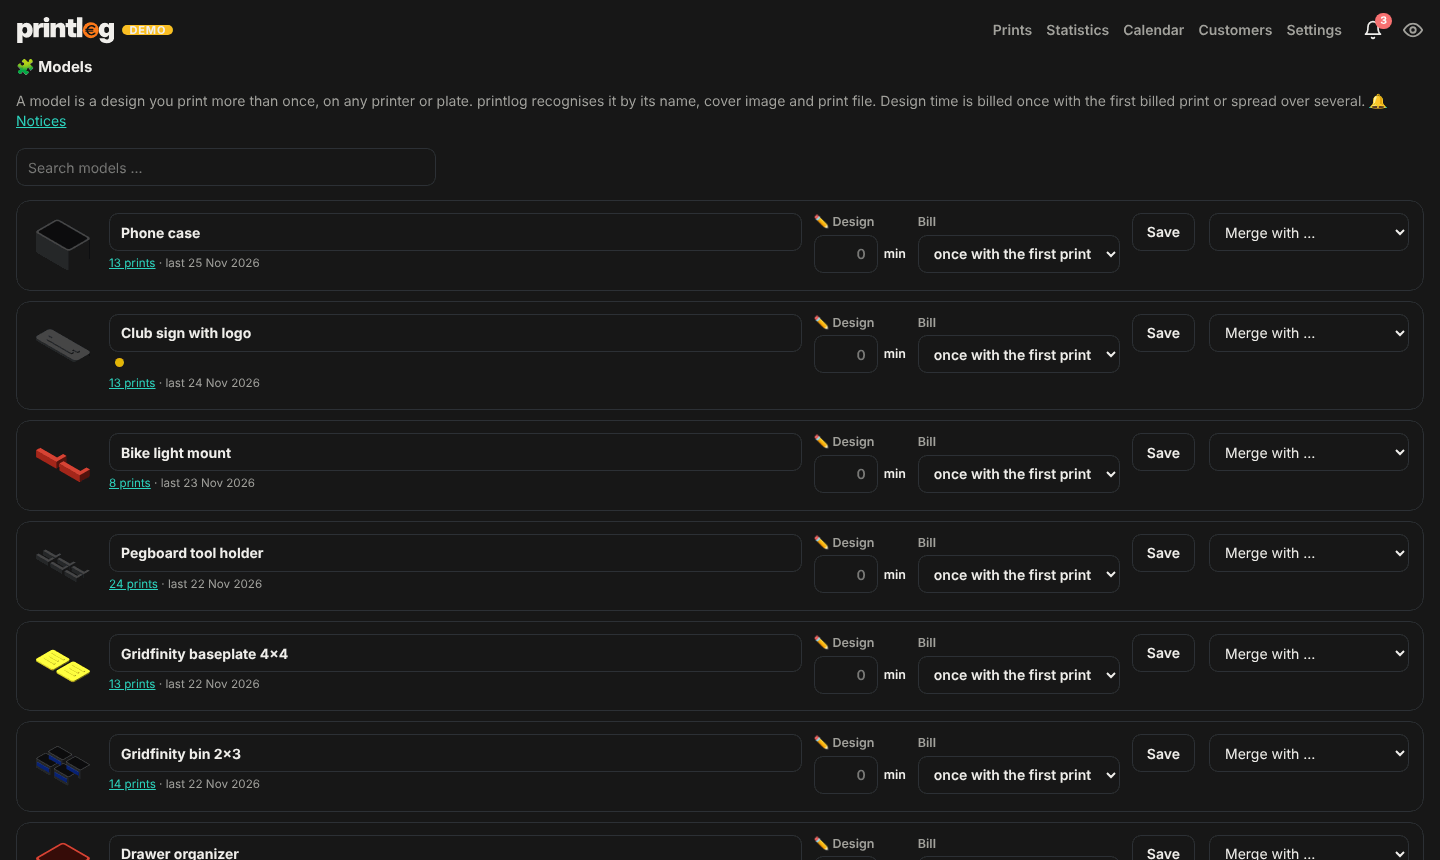
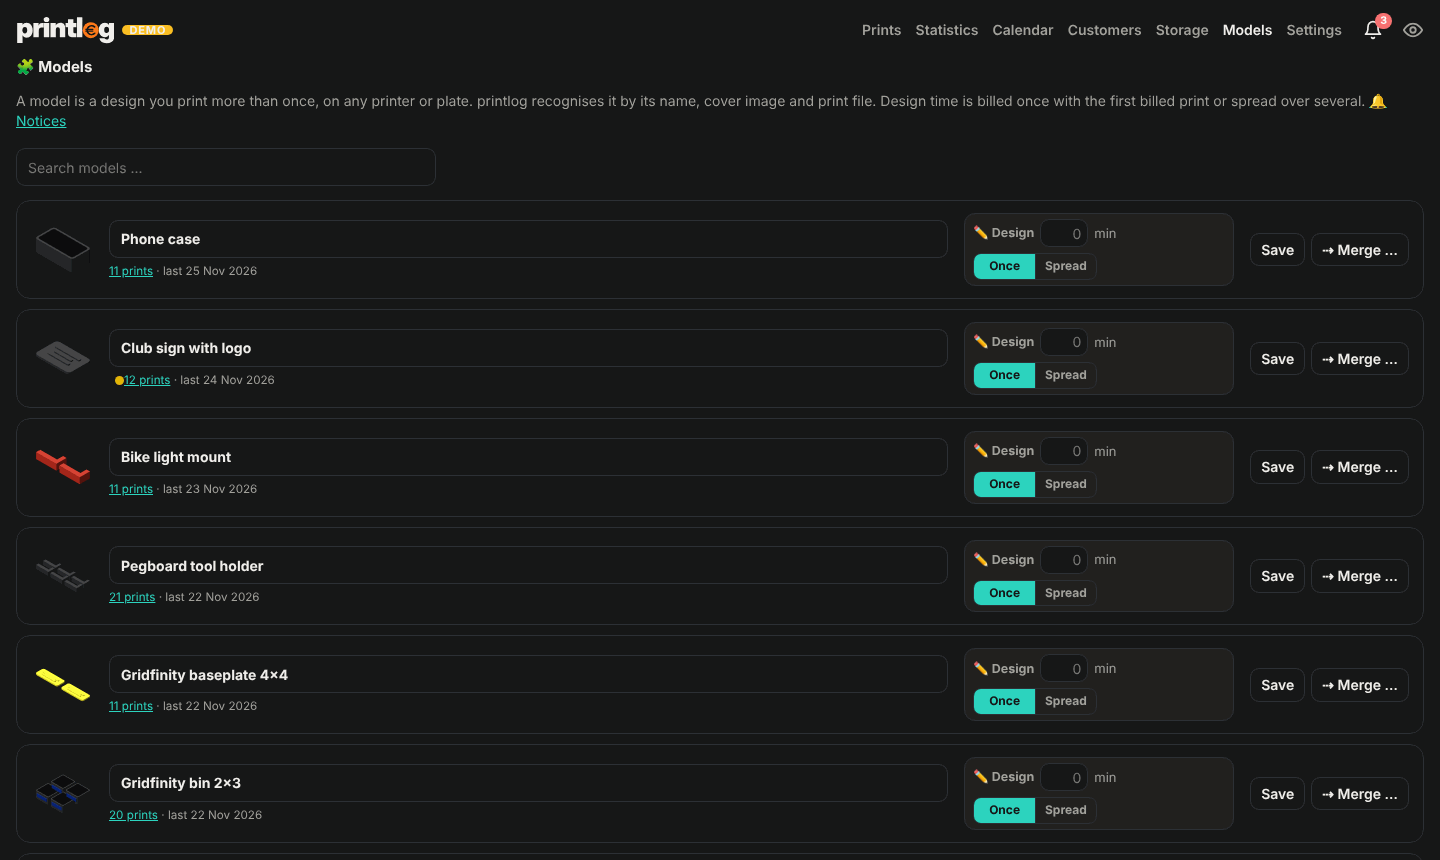
Modelle-Seite: Zeilen bündig, Design-Umschalter, Suche beim Zusammenlegen (#25)
* Arbeit & Zubehör: Arbeitszeit, Zubehör-Inventar, Montage und Bon-Option

- Kasten „Arbeit & Zubehör“ in der Übersicht: Vorbereitung pro Platte, Nachbearbeitung
  pro Stück oder einmalig, Design mit eigenem Stundensatz, Zubehör aus dem Inventar
  und einmalige Posten
- Inventar in den Einstellungen mit Packungspreis, Bestand, Warnung, Kauflink, Zugang
- Zubehör reserviert, abgebucht bei „Montiert“ oder Übergabe
- Preis = (Druck + Zubehör) × (1 + Marge) + Arbeit; Häkchen „auch auf Arbeitszeit“
  pro Marge, pro Kunde Standard/ja/nein
- Gewinn über Selbstkosten und effektiver Stundenlohn im Preiskasten
- Projekte und Aufteilungen rechnen Arbeit und Zubehör mit; CSV, Bon, PDF erweitert
- Kunden-Bon optional mit enthaltenen Positionen ohne Preise
- Demo-Daten, README EN/DE und Bilder

Claude-Session: https://claude.ai/code/session_016QS8kLCpfAFka2Kzu3XCw3

* Modelle mit Erkennung, Designkosten pro Modell und Hinweis-System

- Modell = Design (Name + gelernte Aliase), Erkennung nach Druckende mit Punkten:
  Name gleich/Alias +60, ähnlich +35, Cover-Bild (dHash) +25, Druckdatei +10,
  Platte +5, Gewicht pro Stück ±15 % +5; ≥85 automatisch, 60–84 vorläufig mit
  Nachfrage, 35–59 Vorschlag, darunter neues Modell, zwei fast gleich gute fragen immer
- Antworten werden gelernt (Alias), abgelehnte Paare nie wieder vorgeschlagen;
  erster Lauf über die vorhandene Historie still
- Designzeit am Modell: einmal beim ersten berechneten Druck oder verteilt auf N
[…]

diff --git a/app/models.py b/app/models.py
@@ -587,10 +587,10 @@ def page_models(store: Store, q: str | None = None) -> str:
     aliases: dict[int, list[str]] = {}
     for r in store._conn.execute("SELECT * FROM model_aliases ORDER BY alias"):
         aliases.setdefault(r["model_id"], []).append(r["alias"])
+    all_rows = sorted(rows, key=lambda r: r["name"].casefold())
     if q:
         qn = normalize(q)
         rows = [r for r in rows if qn in normalize(r["name"]) or any(qn in a for a in aliases.get(r["id"], []))]
-    allm = sorted(((r["id"], r["name"]) for r in rows), key=lambda x: x[1].casefold())
     items = ""
     for r in rows:
         mid = r["id"]
@@ -598,29 +598,76 @@ def page_models(store: Store, q: str | None = None) -> str:
         al = "".join(f'<form method="post" action="{act}" class="al"><input type="hidden" name="unalias" value="{e(a)}">'
                      f'<span>{e(a)}</span><button title="{e(t("Alias entfernen"))}">×</button></form>' for a in aliases.get(mid, []))
         spread = r.get("design_mode") == "spread"
-        merge_opts = "".join(f'<option value="{i}">{e(n)}</option>' for i, n in allm if i != mid)
         dot_ = f' <a class="mdot y" href="hints" title="{e(t("offene Hinweise"))}"></a>' if r.get("open") else ""
+        dm = fmt_input(r.get("design_min")) if r.get("design_min") else ""
         items += (
-            f'<div class="mdrow" id="m{mid}"><div class="mimg">{_img(r)}</div>'
+            f'<div class="mdrow" id="m{mid}" data-n="{e(r["name"].casefold())}"><div class="mimg">{_img(r)}</div>'
             f'<form method="post" action="{act}" class="mdf"><div class="mdname"><input name="name" value="{e(r["name"])}" maxlength="120" aria-label="{e(t("Name"))}">'
             f'<small class="muted">{dot_.strip()}<a href="./?model={mid}">{e(t("{n} Drucke", n=r["n"]))}</a>'
             + (f' · {e(t("zuletzt {d}", d=fmt_date(r["last"])))}' if r.get("last") else "") + f'</small>'
             f'<div class="als">{al}</div></div>'
-            f'<label class="mdes">✏ {e(t("Design"))}<span><input class="num" name="design_min" value="{fmt_input(r.get("design_min")) if r.get("design_min") else ""}" inputmode="decimal" placeholder="0"> min</span></label>'
-            f'<label class="mmode">{e(t("Berechnen"))}<select name="design_mode"><option value="first">{e(t("einmal beim ersten Druck"))}</option>'
-            f'<option value="spread"{" selected" if spread else ""}>{e(t("verteilt auf"))}</option></select>'
-            f'<span class="spn"{"" if spread else " hidden"}><input class="num" name="spread_n" value="{r.get("spread_n") or 3}" inputmode="numeric"> {e(t("Drucke"))}</span></label>'
-            f'<button class="btn">{e(t("Speichern"))}</button></form>'
-            f'<form method="post" action="{act}" class="mmerge"><select name="merge" onchange="if(this.value&&confirm(this.dataset.q))this.form.requestSubmit()" data-q="{e(t("Zusammenlegen? Drucke und Namen wandern in das gewählte Modell."))}">'
-            f'<option value="">{e(t("Zusammenlegen mit …"))}</option>{merge_opts}</select></form></div>')
+            f'<div class="mdbox"><label class="mdes"><span class="lb">✏ {e(t("Design"))}</span>'
+            f'<span class="mv"><input class="num" name="design_min" value="{dm}" inputmode="decimal" placeholder="0"> min</span></label>'
+            f'<div class="mr2"><div class="mseg" role="radiogroup" aria-label="{e(t("Berechnen"))}">'
+            f'<label title="{e(t("beim ersten berechneten Druck"))}"><input type="radio" name="design_mode" value="first"{"" if spread else " checked"}><span>{e(t("Einmalig"))}</span></label>'
+            f'<label><input type="radio" name="design_mode" value="spread"{" checked" if spread else ""}><span>{e(t("Verteilt"))}</span></label></div>'
+            f'<span class="spn"{"" if spread else " hidden"}>{e(t("auf"))} <input class="num" name="spread_n" value="{r.get("spread_n") or 3}" inputmode="numeric"> {e(t("Drucke"))}</span></div></div>'
+            f'<div class="mact"><button class="btn msave">{e(t("Speichern"))}</button>'
+            f'<button type="button" class="btn mmb" data-id="{mid}" data-name="{e(r["name"])}">⇢ {e(t("Zusammenlegen …"))}</button></div></form></div>')
+    data = json.dumps([{"id": r["id"], "name": r["name"], "n": r["n"], "img": r.get("image") or ""} for r in all_rows],
+                      ensure_ascii=False).replace("</", "<\\/")
     if not items:
         items = f'<p class="muted">{e(t("Noch keine Modelle. Sie entstehen automatisch, sobald ein Druck fertig ist."))}</p>'
     intro = e(t("Ein Modell ist ein Design, das du öfter druckst, egal auf welchem Drucker oder welcher Platte. printlog erkennt es am Namen, am Vorschaubild und an der Druckdatei. Die Designzeit wird einmal beim ersten berechneten Druck berechnet oder auf mehrere verteilt."))
     search = (f'<form class="msrch" method="get"><input type="search" name="q" value="{e(q or "")}" placeholder="{e(t("Modell suchen …"))}"></form>')
-    js = ("document.querySelectorAll('.mmode select').forEach(s=>s.onchange=()=>{s.parentElement.querySelector('.spn').hidden=s.value!=='spread'});"
-          "if(location.hash){const el=document.querySelector(location.hash);if(el)el.classList.add('mdhl')}")
-    body = f'<h2 style="margin-top:4px">🧩 {e(t("Modelle"))}</h2><p class="muted">{intro} <a href="hints">🔔 {e(t("Hinweise"))}</a></p>{search}<div class="ml">{items}</div>'
+    js = MODELS_JS.replace("%Q%", json.dumps(t("„{a}“ mit „{b}“ zusammenlegen? Drucke und Namen wandern in „{b}“.")))
+    merge_dlg = (f'<script type="application/json" id="mdata">{data}</script>'
+                 f'<div id="mmpop" class="mmpop" hidden role="dialog"><div class="hd"></div>'
+                 f'<label class="srch">🔍<input type="search" autocomplete="off" placeholder="{e(t("Modell suchen …"))}"></label>'
+                 f'<div class="lst"></div><form method="post" class="mmf"><input type="hidden" name="merge"></form></div><div id="mmbg" class="mmbg" hidden></div>')
+    body = (f'<h2 style="margin-top:4px">🧩 {e(t("Modelle"))}</h2><p class="muted">{intro} <a href="hints">🔔 {e(t("Hinweise"))}</a></p>'
+            f'{search}<div class="ml">{items}</div>{merge_dlg}')
     return layout(t("Modelle"), "models", f'<style>{CSS}</style>{body}', js)
+
+
+MODELS_JS = r"""
+// Design: Umschalter einmalig / verteilt; Speichern hervorheben, sobald etwas geändert ist
+document.querySelectorAll('.mdf').forEach(f=>{
+  const sync=()=>{const sp=f.querySelector('input[name=design_mode][value=spread]').checked;
+    f.querySelector('.mr2 .spn').hidden=!sp};
+  f.addEventListener('change',()=>{sync();f.classList.add('dirty')});f.addEventListener('input',()=>f.classList.add('dirty'))});
+if(location.hash){const el=document.querySelector(location.hash);if(el)el.classList.add('mdhl')}
+// Zusammenlegen: Auswahl mit Suche
+(()=>{let all=[];try{all=JSON.parse(document.getElementById('mdata').textContent)}catch(_){}
+  const pop=document.getElementById('mmpop'),bg=document.getElementById('mmbg');if(!pop)return;
+  const q=pop.querySelector('input[type=search]'),lst=pop.querySelector('.lst'),f=pop.querySelector('.mmf');
+  let src=null,anchor=null;const norm=x=>x.toLowerCase().normalize('NFD').replace(/[\u0300-\u036f]/g,'');
+  function render(){lst.textContent='';const term=norm(q.value.trim());let i=0;
+    all.filter(m=>m.id!==+src.id&&(!term||norm(m.name).includes(term))).forEach(m=>{
+      const b=document.createElement('button');b.type='button';b.className='it'+(i++===0&&term?' hl':'');
+      const im=document.createElement(m.img?'img':'span');if(m.img){im.src='images/'+m.img;im.loading='lazy'}else im.className='ph';
+      const n=document.createElement('span');n.className='n';n.textContent=m.name;
+      const s=document.createElement('small');s.textContent=_t("{n} Drucke").replace('{n}',m.n);
+      b.append(im,n,s);b.onclick=()=>pick(m);lst.append(b)});
+    if(!lst.children.length){const d=document.createElement('div');d.className='none';d.textContent=_t("Kein passendes Modell.");lst.append(d)}}
+  function place(){if(innerWidth<=700){pop.style.left='';pop.style.top='';return}
+    const r=anchor.getBoundingClientRect(),w=pop.offsetWidth,h=pop.offsetHeight;
+    let left=Math.min(Math.max(8,r.right-w),innerWidth-w-8),top=r.bottom+8;
+    if(top+h>innerHeight-8&&r.top-h-8>8)top=r.top-h-8;
+    pop.style.left=(left+scrollX)+'px';pop.style.top=(top+scrollY)+'px'}
+  function open(b){anchor=b;src={id:b.dataset.id,name:b.dataset.name};
+    const hd=pop.querySelector('.hd');hd.textContent='';const x=document.createElement('b');x.textContent=src.name;
+    hd.append(x,' '+_t("zusammenlegen mit …"));
+    q.value='';render();pop.hidden=false;bg.hidden=false;place();if(matchMedia('(pointer:fine)').matches)q.focus()}
+  function close(){pop.hidden=true;bg.hidden=true}
+  function pick(m){if(!confirm(%Q%.replaceAll('{a}',src.name).replaceAll('{b}',m.name)))return;
+    f.action='api/models/'+src.id;f.querySelector('input').value=m.id;f.submit()}
+  document.querySelectorAll('.mmb').forEach(b=>b.onclick=()=>open(b));
+  q.addEventListener('input',render);
+  q.addEventListener('keydown',ev=>{if(ev.key==='Enter'){ev.preventDefault();const b=lst.querySelector('.it.hl')||lst.querySelector('.it');if(b)b.click()}});
+  bg.onclick=close;document.addEventListener('keydown',ev=>{if(ev.key==='Escape')close()});
+  addEventListener('resize',()=>{if(!pop.hidden)place()})})();
+"""
 
 
 def notify_text(hints: list[str]) -> str:
@@ -646,19 +693,45 @@ CSS = """
 .lowl li{display:flex;gap:12px;align-items:center;padding:8px 0;border-bottom:1px solid var(--line);flex-wrap:wrap}
 .msrch input{width:100%;max-width:420px;margin:4px 0 14px}
 .ml{display:flex;flex-direction:column;gap:10px}
-.mdrow{display:grid;grid-template-columns:64px minmax(0,1fr) 200px;gap:14px;align-items:start;background:var(--card);border:1px solid var(--line);
+.mdrow{display:grid;grid-template-columns:64px minmax(0,1fr);gap:14px;align-items:center;background:var(--card);border:1px solid var(--line);
  border-radius:14px;padding:12px 14px}
 .mdrow.mdhl{box-shadow:0 0 0 2px var(--accent)}
 .mimg img,.mimg .ph{width:64px;height:64px;border-radius:10px;object-fit:cover;display:block;background:var(--bg)}
-.mdf{display:grid;grid-template-columns:minmax(0,1fr) auto auto auto;gap:12px;align-items:start;margin:0}
-.mdname input{font-weight:700;width:100%;box-sizing:border-box}.mdname small{display:block;margin-top:4px}
-.als{display:flex;flex-wrap:wrap;gap:4px;margin-top:6px}
+.mdf{display:grid;grid-template-columns:minmax(0,1fr) 270px auto;gap:16px;align-items:center;margin:0}
+.mdname input{font-weight:700;width:100%;box-sizing:border-box}.mdname small{display:block;margin-top:5px}
+.als{display:flex;flex-wrap:wrap;gap:4px;margin-top:6px}.als:empty{display:none}
 .al{display:inline-flex;align-items:center;gap:2px;border:1px solid var(--line);border-radius:999px;padding:0 2px 0 9px;font-size:12px;color:var(--muted);margin:0}
 .al button{border:0;background:none;color:var(--muted);cursor:pointer;padding:2px 6px;min-height:0}
-.mdes,.mmode{display:flex;flex-direction:column;gap:4px;font-size:12.5px;color:var(--muted);font-weight:600}
-.mdes span,.mmode .spn{display:flex;align-items:center;gap:6px;color:var(--fg)}.mdes input,.mmode input{width:64px;text-align:right}
-.mmerge select{width:100%}.mmode .spn[hidden]{display:none}
+.mdbox{justify-self:stretch;display:flex;flex-direction:column;align-items:flex-start;gap:6px;border:1px solid var(--line);border-radius:11px;padding:5px 8px;background:color-mix(in srgb,var(--fg) 3%,transparent)}
+.mdes{display:flex;align-items:center;gap:6px}.mdes .lb{font-size:12.5px;color:var(--muted);font-weight:700;white-space:nowrap}
+.mdes .mv{display:flex;align-items:center;gap:6px;font-size:13px;color:var(--muted)}.mdes input{width:48px;text-align:right;padding:3px 6px;min-height:0;height:28px}
+.mr2{display:flex;align-items:center;gap:8px}
+.mseg{display:grid;grid-template-columns:1fr 1fr;border:1px solid var(--line);border-radius:8px;overflow:hidden}
+.mseg label{position:relative;cursor:pointer}.mseg input{position:absolute;opacity:0;pointer-events:none}
+.mseg span{display:block;text-align:center;padding:4px 9px;font-size:12px;font-weight:700;color:var(--muted)}
+.mseg label+label span{border-left:1px solid var(--line)}
+.mseg input:checked+span{background:var(--accent);color:var(--bg)}.mseg input:focus-visible+span{outline:2px solid var(--accent);outline-offset:-2px}
+.mr2 .spn{display:flex;align-items:center;gap:5px;font-size:12.5px;color:var(--muted);white-space:nowrap}.mr2 .spn[hidden]{display:none}
+.mr2 .spn input{width:38px;text-align:right;padding:4px 6px;min-height:0;height:28px}
+.mact{display:flex;gap:6px}.mact .btn{min-height:0;padding:6px 10px;white-space:nowrap}.mact .btn{width:100%;justify-content:center}
+.mdf.dirty .msave{background:var(--accent);color:var(--bg);border-color:var(--accent)}
+.mmpop{position:absolute;z-index:70;width:360px;max-width:calc(100vw - 16px);background:var(--card);border:1px solid var(--line);border-radius:16px;
+ box-shadow:0 24px 70px rgba(0,0,0,.45);padding:12px;font-size:14px;display:flex;flex-direction:column}
+.mmpop[hidden],.mmbg[hidden]{display:none}.mmbg{position:fixed;inset:0;z-index:69;background:transparent}
+.mmpop .hd{font-size:12.5px;color:var(--muted);margin:0 4px 8px}.mmpop .hd b{color:var(--fg);margin-right:4px}
+.mmpop .srch{display:flex;align-items:center;gap:8px;border:1px solid var(--line);border-radius:11px;padding:0 12px;background:var(--bg);margin-bottom:6px}
+.mmpop .srch:focus-within{border-color:var(--accent)}.mmpop .srch input{flex:1;border:0;background:transparent;color:var(--fg);font:inherit;padding:10px 0;outline:0;min-width:0}
+.mmpop .lst{overflow:auto;max-height:min(380px,55vh);overscroll-behavior:contain}
+.mmpop .it{display:flex;align-items:center;gap:10px;padding:7px 8px;border-radius:10px;width:100%;border:0;background:none;color:var(--fg);font:inherit;font-weight:600;text-align:left;cursor:pointer}
+.mmpop .it:hover,.mmpop .it.hl{background:color-mix(in srgb,var(--fg) 7%,transparent)}
+.mmpop .it img,.mmpop .it .ph{width:34px;height:34px;border-radius:8px;object-fit:cover;background:var(--bg);flex:none}
+.mmpop .it .n{overflow:hidden;text-overflow:ellipsis;white-space:nowrap}.mmpop .it small{margin-left:auto;color:var(--muted);font-weight:500;font-size:12px;white-space:nowrap;padding-left:8px}
+.mmpop .none{color:var(--muted);padding:10px 8px}.mmf{display:none}
+@media (max-width:1000px){.mdf{grid-template-columns:minmax(0,1fr) 270px}.mact{grid-column:1/-1;justify-content:flex-end}.mact .btn{width:auto}}
 @media (max-width:760px){.mhint{flex-direction:column}.mhj{width:auto}
- .mdrow{grid-template-columns:52px minmax(0,1fr)}.mimg img,.mimg .ph{width:52px;height:52px}.mmerge{grid-column:1/-1}
- .mdf{grid-template-columns:minmax(0,1fr) minmax(0,1fr)}.mmode select{width:100%;min-width:0}.mdf>*{min-width:0}.mdf .mdname{grid-column:1/-1}.mdf .btn{grid-column:1/-1}}
+ .mdbox{justify-self:stretch}.mact{justify-content:stretch}.mact .btn{flex:1}
+ .mdrow{grid-template-columns:52px minmax(0,1fr);align-items:start}.mimg img,.mimg .ph{width:52px;height:52px}
+ .mdf{grid-template-columns:minmax(0,1fr)}.mdf>*{min-width:0}
+ .mmpop{position:fixed;left:0!important;right:0;bottom:0;top:auto!important;width:auto;max-width:none;border-radius:22px 22px 0 0;padding:10px 16px calc(18px + env(safe-area-inset-bottom))}
+ .mmbg{background:rgba(0,0,0,.55)}}
 """

diff --git a/app/i18n_en.py b/app/i18n_en.py
@@ -1180,4 +1180,12 @@ EN: dict[str, str] = {
     'Alle Gruppen': 'All groups',
     'Alle Orte': 'All locations',
     '{n} Zubehör': '{n} accessories',
+    'Einmalig': 'Once',
+    'Verteilt': 'Spread',
+    'beim ersten berechneten Druck': 'on the first billed print',
+    'auf': 'over',
+    'Zusammenlegen …': 'Merge …',
+    'zusammenlegen mit …': 'merge with …',
+    'Kein passendes Modell.': 'No matching model.',
+    '„{a}“ mit „{b}“ zusammenlegen? Drucke und Namen wandern in „{b}“.': 'Merge “{a}” into “{b}”? Prints and names move to “{b}”.',
 }

diff --git a/README.md b/README.md
@@ -78,7 +78,8 @@ in a **light and a dark** colour scheme (Settings → View → Colour scheme, or
   automatically; 60–84 it assigns it tentatively and asks; 35–59 it only suggests one; below that it creates a new model.
   If two models fit almost equally well, it always asks. Your answers are remembered: a confirmed name becomes an alias,
   a rejected pair is never suggested again. The **Models** page (top menu) lists every model with its prints and lets you rename,
-  merge and remove aliases. On the first start the existing history is sorted into models silently, without questions.
+  merge (pick the target in a searchable list) and remove aliases; design time is set per model with a switch
+  **Once / Spread** (over N prints). On the first start the existing history is sorted into models silently, without questions.
 - **Notices** – a 🔔 bell at the top counts open questions (prints to check, accessories to restock). The **Notices** page
   answers them in one tap (*Yes, model X* / *Other model …* / *New model*); the list shows a coloured dot on such prints
   and the print page a banner. Optionally printlog also sends a Home Assistant notification (*Settings → View*).
@@ -475,7 +476,8 @@ in **hell und dunkel** (Einstellungen → Ansicht → Farbschema, oder automatis
   ordnet es automatisch zu, bei 60–84 vorläufig mit Nachfrage, bei 35–59 macht es nur einen Vorschlag, darunter legt es ein
   neues Modell an. Passen zwei Modelle fast gleich gut, fragt es immer. Deine Antworten merkt es sich: ein bestätigter Name
   wird Alias, ein abgelehntes Paar wird nie wieder vorgeschlagen. Die Seite **Modelle** (Menü oben) zeigt alle Modelle mit ihren Drucken;
-  dort lassen sie sich umbenennen, zusammenlegen und Aliase entfernen. Beim ersten Start sortiert printlog die vorhandene
+  dort lassen sie sich umbenennen, zusammenlegen (Ziel in einer Liste mit Suchfeld wählen) und Aliase entfernen; die
+  Designzeit stellst du pro Modell mit dem Umschalter **Einmalig / Verteilt** (auf N Drucke) ein. Beim ersten Start sortiert printlog die vorhandene
   Historie still in Modelle ein, ohne Rückfragen.
 - **Hinweise** – eine 🔔 Glocke oben zählt offene Fragen (Drucke prüfen, Zubehör nachkaufen). Auf der Seite **Hinweise**
   beantwortest du sie mit einem Tipp (*Ja, Modell X* / *Anderes Modell …* / *Neues Modell*); die Liste zeigt bei solchen
